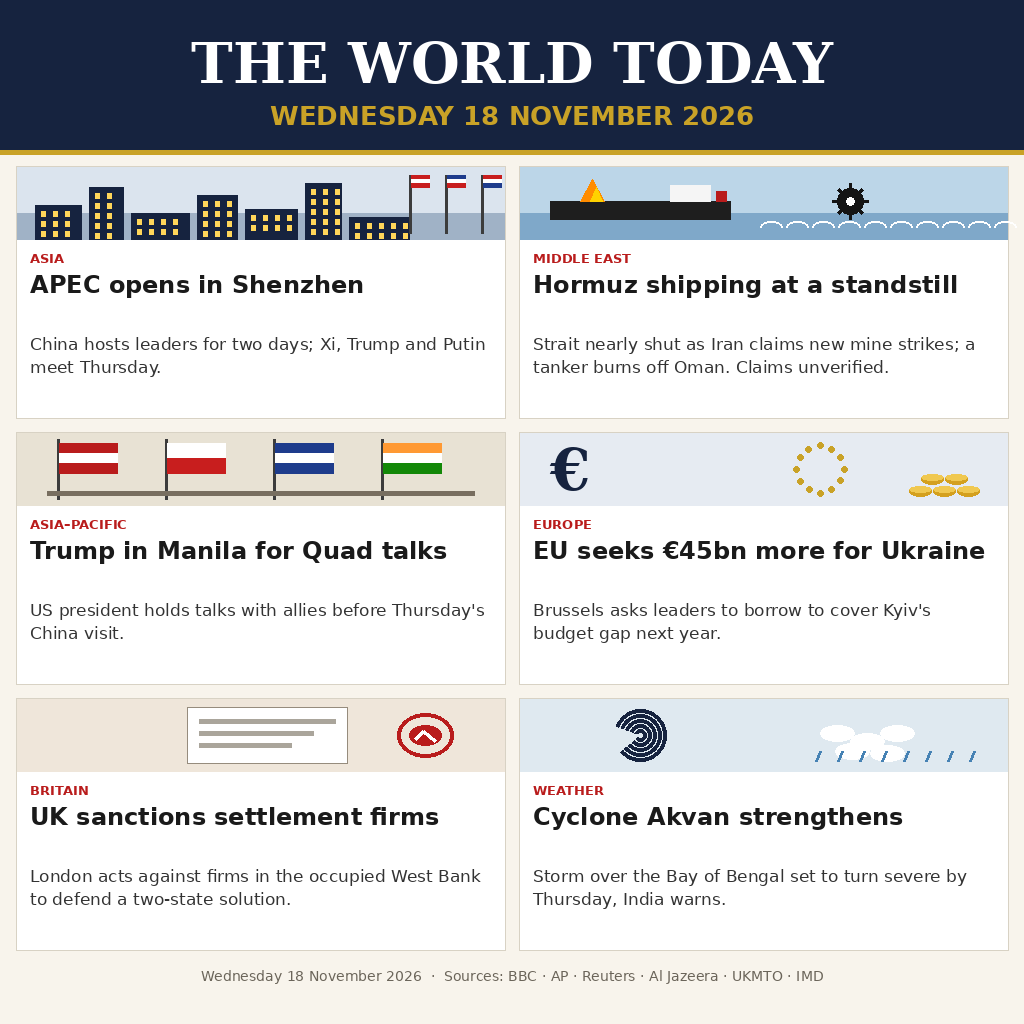
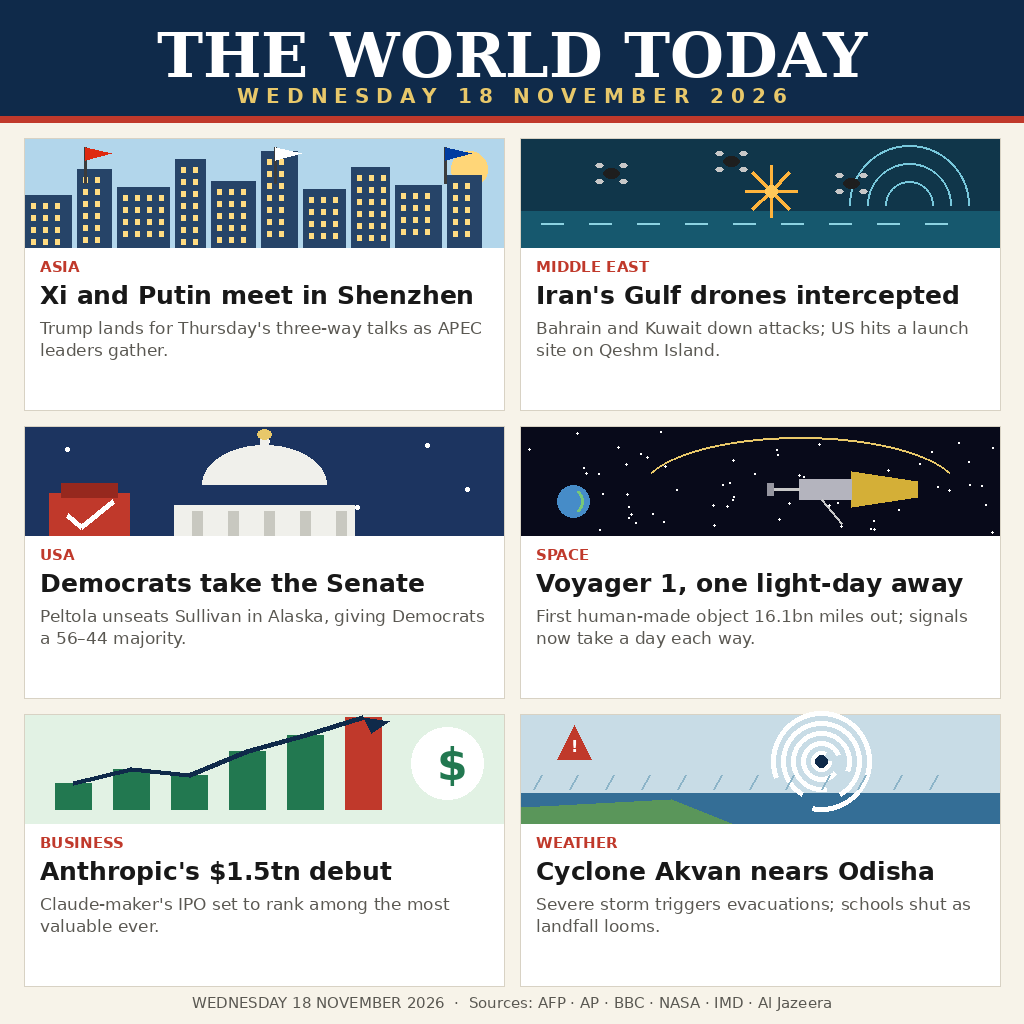
news-image-20261118 round 2: The World Today refresh with the fuller's day news

diff --git a/main.py b/main.py
@@ -1,36 +1,52 @@
 #!/usr/bin/env python3
-"""Copy the entry image to the output directory.
+"""make.fun news-image-20261118 round 2 entrypoint.
 
-Reads entry.png (shipped beside this file) and writes it byte for byte to
-$MAKEFUN_OUTPUT_DIR/entry.png (default /output). No network, deterministic.
+Copies the pre-rendered front-page image entry.png into
+$MAKEFUN_OUTPUT_DIR/entry.png. Python standard library only, no network,
+fully deterministic. A sha256 guard refuses to ship a different image than
+the one reviewed for this round.
 """
+
 import hashlib
 import os
+import shutil
 import sys
 from pathlib import Path
 
-MAX_BYTES = 1048576
[2 lines of base64/hex data omitted]
+MAX_BYTES = 1024 * 1024
 
 
-def main() -> int:
-    src = Path(__file__).resolve().with_name("entry.png")
-    if not src.is_file():
-        print(f"missing entry image: {src}", file=sys.stderr)
+def sha256_of(path):
+    digest = hashlib.sha256()
+    with open(path, "rb") as handle:
+        for chunk in iter(lambda: handle.read(65536), b""):
+            digest.update(chunk)
+    return digest.hexdigest()
+
+
+def main():
+    here = Path(__file__).resolve().parent
+    source = here / "entry.png"
+    if not source.is_file():
+        print("entry.png missing next to main.py", file=sys.stderr)
         return 1
-    data = src.read_bytes()
-    if len(data) > MAX_BYTES:
-        print(f"entry image too large: {len(data)} bytes", file=sys.stderr)
+    found = sha256_of(source)
+    if found != EXPECTED_SHA256:
+        print("entry.png sha256 mismatch: got %s" % found, file=sys.stderr)
         return 1
-    digest = hashlib.sha256(data).hexdigest()
-    if digest != EXPECTED_SHA256:
-        print(f"entry image digest mismatch: {digest}", file=sys.stderr)
+    size = source.stat().st_size
+    if size == 0 or size > MAX_BYTES:
+        print("entry.png size out of range: %d bytes" % size, file=sys.stderr)
         return 1
     out_dir = Path(os.environ.get("MAKEFUN_OUTPUT_DIR", "/output"))
     out_dir.mkdir(parents=True, exist_ok=True)
-    out = out_dir / "entry.png"
-    out.write_bytes(data)
-    print(f"wrote {out}")
+    dest = out_dir / "entry.png"
+    shutil.copyfile(source, dest)
+    if sha256_of(dest) != EXPECTED_SHA256:
+        print("copied entry.png failed re-hash", file=sys.stderr)
+        return 1
+    print("wrote %s (%d bytes, sha256 %s)" % (dest, dest.stat().st_size, found))
     return 0
 
 

diff --git a/README.md b/README.md
@@ -1,16 +1,28 @@
-# The World Today — 18 November 2026
+# The World Today — 18 November 2026 (round 2)
 
-make.fun news-image-20261118 entry: one image summing up the world's news of
-Wednesday 18 November 2026.
+A 1024x1024 front page summing up Wednesday 18 November 2026 in six
+stories, refreshed with the fuller day's news: the Xi–Putin meeting in
+Shenzhen and Trump's arrival for Thursday's trilateral, Iranian drone
+attacks intercepted over the Gulf, the Democrats taking the US Senate,
+Voyager 1 reaching one light-day from Earth, Anthropic's $1.5tn IPO,
+and Cyclone Akvan's evacuations in Odisha.
 
-`main.py` (Python 3.13, standard library only) copies `entry.png` to
-`$MAKEFUN_OUTPUT_DIR/entry.png` (default `/output`), with a size cap and a
-sha256 guard. No network; both runs write identical bytes.
+## Run
 
-The image is a newspaper front page: masthead "THE WORLD TODAY" with the date,
-then six stories — APEC opens in Shenzhen; Hormuz shipping at a standstill;
-Trump in Manila for Quad talks; the EU seeks €45bn more for Ukraine; the UK
-sanctions settlement firms; Cyclone Akvan strengthens. Drawn with PIL from
-verified reporting (BBC · AP · Reuters · Al Jazeera · UKMTO · IMD).
+```sh
+MAKEFUN_OUTPUT_DIR=/tmp/news18-v2-out python3 main.py
+```
 
-License: MIT.
+`main.py` (Python standard library only, no network) copies `entry.png`
+into `$MAKEFUN_OUTPUT_DIR/entry.png` and refuses to run if the image's
+sha256 or size does not match the reviewed round-2 image.
+
+## Image
+
+`entry.png` is a flat, PIL-drawn front page: masthead, six illustrated
+story tiles, no AI imagery, no faces. Every story was verified against
+reporting dated 18 November 2026 (AFP, AP, BBC, NASA, IMD, Al Jazeera).
+
+## License
+
+MIT — see LICENSE.
